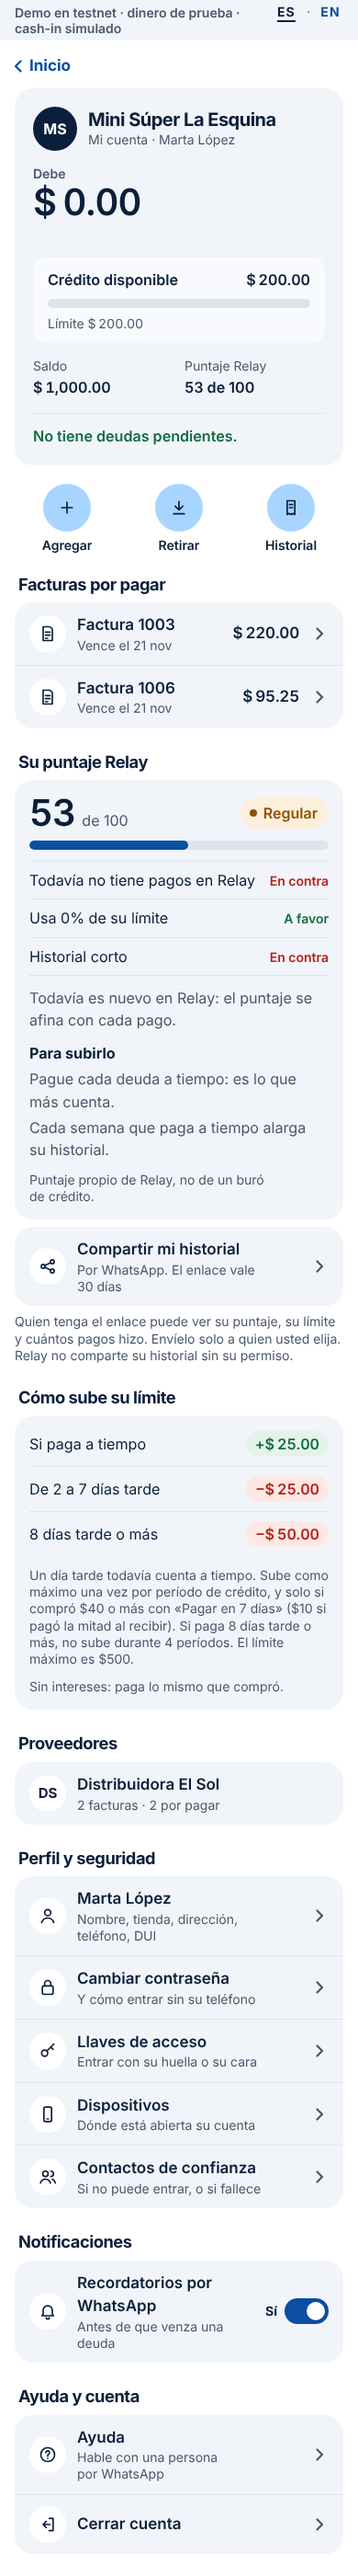
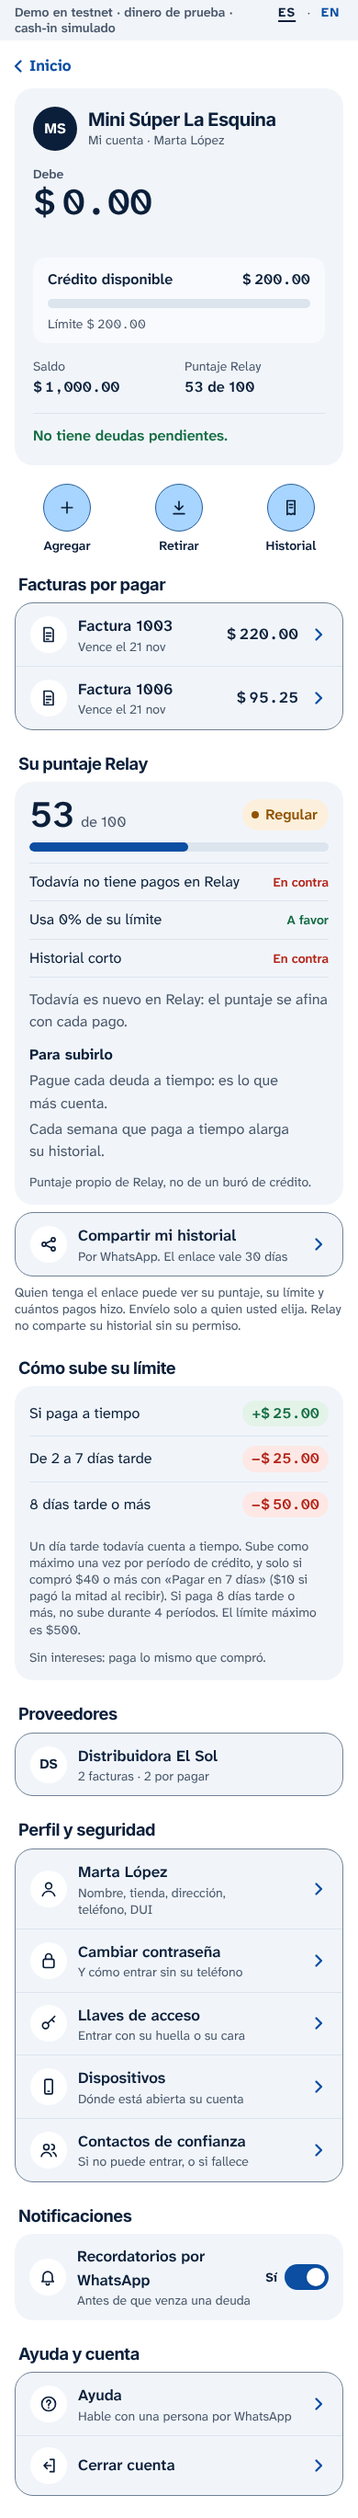
Review fixes: visible edges, clear disabled state, Atkinson for reading and codes
- Light blue buttons, pills and route arrows get a dark blue edge (#265f9e: 3:1+ on white,
  cards and the blue itself). Tappable rows, cards, tabs and selects get a grey edge (#6f8196).
- A disabled main button is white with a dashed edge and muted words, no longer a near twin.
- Row chevrons are blue again so rows read as tappable.
- Reading text back to Atkinson Hyperlegible Next, amounts and codes in Atkinson Hyperlegible
  Mono; Inter stays for the big headings only.
- The shop's demo card starts open on the home page.
- lib/contrast.test.ts checks the edge, row and disabled pairs at 3:1.

Claude-Session: https://claude.ai/code/session_012ShQukY565b6Ed76kj7NKX

diff --git a/app/page.tsx b/app/page.tsx
@@ -95,16 +95,16 @@ function CurlyArrow() {
 /** The fold's chevron: points right when closed, down when open (.fold-chevron in globals.css). */
 function FoldChevron() {
   return (
-    <svg viewBox="0 0 20 20" className="fold-chevron size-6 shrink-0 text-ink" fill="none" stroke="currentColor" strokeWidth="2.25" strokeLinecap="round" strokeLinejoin="round" aria-hidden="true">
+    <svg viewBox="0 0 20 20" className="fold-chevron size-6 shrink-0 text-brand" fill="none" stroke="currentColor" strokeWidth="2.25" strokeLinecap="round" strokeLinejoin="round" aria-hidden="true">
       <path d="M7.5 4.5 13 10l-5.5 5.5" />
     </svg>
   );
 }
 
-/** One way into the demo: a card with a number and who you are. Tapping it unfolds one sentence and the people to choose from. */
-function Role({ n, id, who, children, links }: { n: number; id: string; who: ReactNode; children: ReactNode; links: ReactNode }) {
+/** One way into the demo: a card with a number and who you are. Tapping it unfolds one sentence and the people to choose from. The shop starts open (most visitors, and booth judges, try it first). */
+function Role({ n, id, who, children, links, open = false }: { n: number; id: string; who: ReactNode; children: ReactNode; links: ReactNode; open?: boolean }) {
   return (
-    <details className="fold group rounded-card bg-paper">
+    <details open={open} className="fold group rounded-card border border-edge bg-paper">
       <summary className="press flex min-h-16 items-center gap-3 rounded-card px-4 py-3 hover:bg-brand-tint">
         <span className="flex size-9 shrink-0 items-center justify-center rounded-full bg-accent text-base font-bold text-ink" aria-hidden="true">
           {n}
@@ -149,7 +149,7 @@ export default function Home() {
             <Link href="/registro" className={`${PILL} bg-ink text-white hover:bg-[#162f52]`}>
               <T es="Crear cuenta" en="Create account" />
             </Link>
-            <a href="#demo" className={`${PILL} bg-white text-ink hover:bg-paper`}>
+            <a href="#demo" className={`${PILL} border-[1.5px] border-accent-edge bg-white text-ink hover:bg-paper`}>
               <T es="Probar la demo" en="Try the demo" />
             </a>
           </div>
@@ -188,7 +188,7 @@ export default function Home() {
       </section>
 
       <section aria-labelledby="como">
-        <details className="fold rounded-card bg-paper">
+        <details className="fold rounded-card border border-edge bg-paper">
           <summary className="press flex items-center gap-4 rounded-card px-5 py-5 hover:bg-brand-tint min-[40rem]:px-8 min-[40rem]:py-6">
             <span className="flex min-w-0 flex-1 flex-col gap-1">
               <h2 id="como" className="text-[clamp(1.875rem,1.3rem+2.5vw,3rem)] leading-[1.05] font-black tracking-[-0.03em]">
@@ -245,7 +245,7 @@ export default function Home() {
         </header>
 
         <div className="grid items-start gap-3 min-[64rem]:grid-cols-3 min-[64rem]:gap-4">
-          <Role n={1} id="rol-tienda" who={<T es="La tienda" en="The shop" />} links={<ShopLinks />}>
+          <Role n={1} id="rol-tienda" open who={<T es="La tienda" en="The shop" />} links={<ShopLinks />}>
             <T es="Paga cada factura desde el teléfono: ahora, en efectivo o en 7 días sin intereses." en="Pays each invoice from the phone: now, in cash, or in 7 days with no interest." />
           </Role>
           <Role n={2} id="rol-motorista" who={<T es="El motorista" en="The driver" />} links={<DriverLinks />}>

diff --git a/components/kit/button.tsx b/components/kit/button.tsx
@@ -27,9 +27,9 @@ const FILL: Record<FilledSize, string> = {
 const FILLED = `flex w-full flex-col items-center justify-center rounded-full text-center font-bold ${PRESS}`;
 const TONE = {
   primary:
-    "bg-accent text-ink hover:bg-accent-press active:bg-accent-press disabled:bg-paper-rule disabled:text-muted aria-busy:disabled:bg-accent-press aria-busy:disabled:text-ink data-arriving:disabled:bg-accent data-arriving:disabled:text-ink",
+    "border-[1.5px] border-accent-edge bg-accent text-ink hover:bg-accent-press active:bg-accent-press disabled:border-dashed disabled:border-edge disabled:bg-white disabled:text-muted aria-busy:disabled:border-solid aria-busy:disabled:border-accent-edge aria-busy:disabled:bg-accent-press aria-busy:disabled:text-ink data-arriving:disabled:border-solid data-arriving:disabled:border-accent-edge data-arriving:disabled:bg-accent data-arriving:disabled:text-ink",
   danger:
-    "bg-bad text-white hover:bg-[#8f1c13] active:bg-[#8f1c13] disabled:bg-paper-rule disabled:text-muted aria-busy:disabled:bg-[#8f1c13] aria-busy:disabled:text-white",
+    "bg-bad text-white hover:bg-[#8f1c13] active:bg-[#8f1c13] border-[1.5px] border-bad disabled:border-dashed disabled:border-edge disabled:bg-white disabled:text-muted aria-busy:disabled:bg-[#8f1c13] aria-busy:disabled:text-white",
 };
 
 /**
@@ -115,8 +115,8 @@ export function ButtonLink({ href, children, hint, size = "md", external = false
 // ---------- secondary actions: outlined rows ----------
 
 const ROW = `flex w-full items-center justify-between gap-3 px-4 py-2 text-left text-ink ${PRESS}`;
-const OUTLINE = "rounded-control bg-paper hover:bg-brand-tint active:bg-brand-tint";
-const OUTLINE_OFF = "disabled:text-muted disabled:hover:bg-paper";
+const OUTLINE = "rounded-control border border-edge bg-paper hover:bg-brand-tint active:bg-brand-tint";
+const OUTLINE_OFF = "disabled:border-dashed disabled:text-muted disabled:hover:bg-paper";
 
 function RowLabel({ title, hint }: { title: ReactNode; hint?: ReactNode }) {
   return (
@@ -131,7 +131,7 @@ function RowEnd({ figure, open }: { figure?: ReactNode; open?: boolean }) {
   return (
     <span className="flex shrink-0 items-center gap-2">
       {figure && <span className="font-mono text-[1.0625rem] font-semibold text-ink">{figure}</span>}
-      <Chevron open={open} />
+      <Chevron open={open} className="size-5 text-brand" />
     </span>
   );
 }
@@ -180,7 +180,7 @@ export function ActionRow({
     );
   }
   return (
-    <div className="rounded-control bg-paper">
+    <div className={`rounded-control border bg-paper ${disabled ? "border-dashed border-edge" : "border-edge"}`}>
       <button
         type="button"
         onClick={onClick}

diff --git a/app/layout.tsx b/app/layout.tsx
@@ -1,13 +1,17 @@
 import type { Metadata, Viewport } from "next";
-import { Inter } from "next/font/google";
+import { Atkinson_Hyperlegible_Mono, Atkinson_Hyperlegible_Next, Inter } from "next/font/google";
 import type { ReactNode } from "react";
 import { TestnetBand } from "@/components/kit/band";
 import { APP_NAME, TAGLINE } from "@/lib/brand";
 import "./globals.css";
 
-// Inter is downloaded at build time and served from our own domain (Latin subset only). One variable file covers
-// every weight: body text, heavy headings, and amounts (with tabular figures, see globals.css).
-const sans = Inter({ variable: "--font-inter", subsets: ["latin"], display: "swap" });
+// All fonts are downloaded at build time and served from our own domain (Latin subset only).
+// Atkinson Hyperlegible Next: all reading text (made for low vision; older shop owners read it easily).
+const sans = Atkinson_Hyperlegible_Next({ variable: "--font-atkinson", subsets: ["latin"], weight: "variable", display: "swap", adjustFontFallback: false });
+// Atkinson Hyperlegible Mono: every amount, invoice number and code.
+const mono = Atkinson_Hyperlegible_Mono({ variable: "--font-atkinson-mono", subsets: ["latin"], weight: "variable", display: "swap", adjustFontFallback: false });
+// Inter: the big headings only (Wise look).
+const display = Inter({ variable: "--font-inter", subsets: ["latin"], display: "swap" });
 
 export const metadata: Metadata = {
   title: `${APP_NAME} · ${TAGLINE}`,
@@ -19,7 +23,7 @@ export const viewport: Viewport = { themeColor: "#ffffff", viewportFit: "cover" 
 
 export default function RootLayout({ children }: { children: ReactNode }) {
   return (
-    <html lang="es" className={`${sans.variable} h-full antialiased`}>
+    <html lang="es" className={`${sans.variable} ${mono.variable} ${display.variable} h-full antialiased`}>
       <body className="flex min-h-dvh flex-col font-sans">
         <TestnetBand />
         {children}

diff --git a/app/globals.css b/app/globals.css
@@ -23,6 +23,11 @@
   /* The bright accent (Wise's lime, in Relay blue): the main button and the big hero bands. Ink text on it. */
   --color-accent: #a8d5ff;
   --color-accent-press: #8cc4f7;
+  /* The edge of anything light blue (3:1 or more on white, on cards and on the light blue itself), so a button
+     is a button for anyone, not just a pale shape. */
+  --color-accent-edge: #265f9e;
+  /* The edge of a tappable row or card (3:1 or more on white and on cards). */
+  --color-edge: #6f8196;
 
   /* Stamps and status. The tints are stamp fills only, never large backgrounds. */
   --color-ok: #146c43;
@@ -63,9 +68,12 @@
 }
 
 @theme inline {
-  --font-sans: var(--font-inter), ui-sans-serif, system-ui, sans-serif;
-  /* Amounts use the same sans with figures that line up (Wise style); the name stays so every call site keeps working. */
-  --font-mono: var(--font-inter), ui-sans-serif, system-ui, sans-serif;
+  /* Reading text: Atkinson Hyperlegible Next, made for low vision (no mixing up 0/O, 1/l/I). */
+  --font-sans: var(--font-atkinson), ui-sans-serif, system-ui, sans-serif;
+  /* Amounts and codes: its mono sister, so every digit and letter of a code is unmistakable. */
+  --font-mono: var(--font-atkinson-mono), ui-monospace, "SF Mono", Menlo, Consolas, monospace;
+  /* Big headings only: Inter, heavy and tight, for the Wise look. */
+  --font-display: var(--font-inter), ui-sans-serif, system-ui, sans-serif;
 }
 
 /* A short screen (a 360x640 phone, any phone held sideways): the slip tightens and folds its lines, so the
@@ -142,12 +150,12 @@ body {
   /* Figures line up in columns */
   .font-mono {
     font-variant-numeric: tabular-nums;
-    letter-spacing: -0.01em;
   }
 
   /* Headings: heavy and tight, like Wise's. */
   h1,
   h2 {
+    font-family: var(--font-display);
     font-weight: 800;
     letter-spacing: -0.025em;
   }

diff --git a/components/kit/account.tsx b/components/kit/account.tsx
@@ -23,7 +23,7 @@ export function CardHeading({ children, id }: { children: ReactNode; id?: string
 
 /** Several rows in one card, split by hairlines. */
 export function RowGroup({ children }: { children: ReactNode }) {
-  return <Card className="flex flex-col divide-y divide-paper-rule overflow-hidden">{children}</Card>;
+  return <Card className="flex flex-col divide-y divide-paper-rule overflow-hidden border border-edge">{children}</Card>;
 }
 
 /** A small round mark at the start of a row: an icon, or a name's initials. */
@@ -47,7 +47,7 @@ function RowBody({ mark, title, hint, figure, chevron }: { mark?: ReactNode; tit
         {hint && <span className="text-label text-muted text-pretty">{hint}</span>}
       </span>
       {figure && <span className="shrink-0 font-mono text-[1.0625rem] font-semibold text-ink">{figure}</span>}
-      {chevron && <Chevron className="size-5 text-muted" />}
+      {chevron && <Chevron className="size-5 text-brand" />}
     </>
   );
 }
@@ -119,7 +119,7 @@ export function Shortcut({ href, icon, children }: { href: string; icon: ReactNo
     <Link href={href} className="group flex min-h-11 min-w-0 flex-1 flex-col items-center gap-1.5 rounded-control py-1 text-center">
       <span
         aria-hidden
-        className="flex size-13 items-center justify-center rounded-full bg-accent text-ink press group-hover:bg-accent-press group-active:scale-[0.92] motion-reduce:group-active:scale-100"
+        className="flex size-13 items-center justify-center rounded-full border-[1.5px] border-accent-edge bg-accent text-ink press group-hover:bg-accent-press group-active:scale-[0.92] motion-reduce:group-active:scale-100"
       >
         {icon}
       </span>

diff --git a/components/kit/field.tsx b/components/kit/field.tsx
@@ -8,7 +8,7 @@ import { useT } from "@/lib/i18n";
 
 // scroll-mb: when the phone brings a focused input into view, the button under it comes too.
 export const INPUT =
-  "min-h-13 w-full scroll-mb-28 rounded-control border-[1.5px] border-[#8693a5] bg-white px-4 text-[1.125rem] text-ink placeholder:text-muted/70 focus:border-ink focus:outline-3 focus:outline-accent focus:-outline-offset-1 aria-invalid:border-bad disabled:border-counter-rule disabled:text-muted";
+  "min-h-13 w-full scroll-mb-28 rounded-control border-[1.5px] border-edge bg-white px-4 text-[1.125rem] text-ink placeholder:text-muted/70 focus:border-ink focus:outline-3 focus:outline-accent focus:-outline-offset-1 aria-invalid:border-bad disabled:border-counter-rule disabled:text-muted";
 
 type Common = { label: ReactNode; hint?: ReactNode; error?: ReactNode };
 
@@ -102,7 +102,7 @@ export function FilterSelect({ label, children, ...select }: { label: ReactNode 
       </label>
       <select
         id={id}
-        className="press select-chevron min-h-11 w-full appearance-none rounded-full bg-paper py-1 pr-9 pl-4 text-base font-semibold text-ink hover:bg-brand-tint focus:outline-3 focus:outline-brand @min-[40rem]:w-auto"
+        className="press select-chevron min-h-11 w-full appearance-none rounded-full border border-edge bg-paper py-1 pr-9 pl-4 text-base font-semibold text-ink hover:bg-brand-tint focus:outline-3 focus:outline-brand @min-[40rem]:w-auto"
         {...select}
       >
         {children}

diff --git a/lib/contrast.test.ts b/lib/contrast.test.ts
@@ -50,6 +50,21 @@ describe("colour contrast", () => {
     for (const fill of ["accent", "accent-press"]) expect(contrast(token("ink"), token(fill)), fill).toBeGreaterThanOrEqual(AAA);
   });
 
+  it("a light blue button's edge is 3:1 or more on the page, on a card and against its own fill", () => {
+    for (const ground of ["counter", "paper", "accent", "accent-press"]) expect(contrast(token("accent-edge"), token(ground)), ground).toBeGreaterThanOrEqual(3);
+  });
+
+  it("a tappable row's or card's edge is 3:1 or more on the page and on a card", () => {
+    for (const ground of ["counter", "paper"]) expect(contrast(token("edge"), token(ground)), ground).toBeGreaterThanOrEqual(3);
+  });
+
+  it("a disabled button (white, dashed edge, muted words) tells itself apart from an active one by its edge and words", () => {
+    // The active edge against the disabled fill, and the active words against the disabled words' fill.
+    expect(contrast(token("accent-edge"), token("counter"))).toBeGreaterThanOrEqual(3);
+    expect(contrast(token("muted"), token("counter"))).toBeGreaterThanOrEqual(AA);
+    expect(contrast(token("edge"), token("counter"))).toBeGreaterThanOrEqual(3);
+  });
+
   it("white text is AA on every filled button, resting and pressed", () => {
     for (const fill of ["brand", "brand-press", "bad"]) expect(contrast("#ffffff", token(fill)), fill).toBeGreaterThanOrEqual(AA);
   });

diff --git a/components/kit/manifest.tsx b/components/kit/manifest.tsx
@@ -77,7 +77,7 @@ export function ManifestRow({
             : ""
         }`}
       >
-        <span className="flex min-w-0 flex-1 items-stretch rounded-l-paper bg-paper">
+        <span className="flex min-w-0 flex-1 items-stretch rounded-l-paper border border-r-0 border-edge bg-paper">
           <span
             className={`flex shrink-0 items-center justify-center border-r-2 border-solid border-paper-rule font-mono font-semibold ${
               next ? "w-14 text-[2.5rem] @max-[19rem]/row:w-11 @max-[19rem]/row:text-[2rem]" : "w-12 text-[1.75rem] @max-[19rem]/row:w-10 @max-[19rem]/row:text-[1.5rem]"
@@ -121,7 +121,7 @@ export function ManifestRow({
         <span
           aria-hidden
           className={`flex w-14 shrink-0 items-center justify-center rounded-r-control @max-[19rem]/row:w-10 ${
-            done ? "bg-paper text-muted" : "bg-accent text-ink"
+            done ? "border border-edge bg-paper text-brand" : "border-[1.5px] border-accent-edge bg-accent text-ink"
           } ${current ? "@min-[40rem]/split:border-0 @min-[40rem]/split:bg-paper @min-[40rem]/split:text-ink" : ""}`}
         >
           <Chevron className={next ? "size-7" : "size-6"} />

diff --git a/app/sistema/page.tsx b/app/sistema/page.tsx
@@ -77,14 +77,14 @@ export default function Sistema() {
         </Section>
         <Section title={t("Letra", "Type")}>
           <Paper className="flex flex-col gap-3 px-4 py-5">
-            <p className="text-title font-bold">Inter 800</p>
+            <p className="text-title font-bold">Inter 800 (títulos) · Atkinson Hyperlegible Next</p>
             <p className="text-lead font-semibold">¿Cuánto paga ahora? ¡Año, pingüino, señal!</p>
             <p>El papel guarda los datos: montos, fechas, nombres, historial y estado. Á É Í Ó Ú Ñ Ü á é í ó ú ñ ü ¿ ¡ $</p>
             <p className="text-label text-muted">Etiqueta de 14 px, nunca menos.</p>
             <p className="font-mono text-figure font-semibold">
               <Money value={1234.5} />
             </p>
-            <p className="font-mono font-medium">Inter, cifras tabulares · 0123456789 · n.º 1001 · 13 nov 2026</p>
+            <p className="font-mono font-medium">Atkinson Hyperlegible Mono · 0123456789 · n.º 1001 · 13 nov 2026</p>
           </Paper>
         </Section>
         <Section title={t("Color", "Colour")}>

diff --git a/components/kit/ledger.tsx b/components/kit/ledger.tsx
@@ -289,7 +289,7 @@ export function RowButton({ children, onClick, label, disabled = false, busy = f
       disabled={disabled || busy}
       aria-busy={busy}
       aria-label={label}
-      className="inline-flex min-h-11 items-center justify-center press rounded-full bg-paper px-4 py-1 text-center font-sans text-base leading-tight font-bold text-ink select-none hover:bg-brand-tint active:bg-brand-tint disabled:cursor-not-allowed disabled:text-muted disabled:hover:bg-transparent"
+      className="inline-flex min-h-11 items-center justify-center press rounded-full border border-edge bg-paper px-4 py-1 text-center font-sans text-base leading-tight font-bold text-ink select-none hover:bg-brand-tint active:bg-brand-tint disabled:cursor-not-allowed disabled:text-muted disabled:hover:bg-transparent"
     >
       {busy ? t("Guardando...", "Saving...") : children}
     </button>

diff --git a/app/distribuidor/factura/new-invoice.tsx b/app/distribuidor/factura/new-invoice.tsx
@@ -137,7 +137,7 @@ function ShopPicker({ shops, value, onChange }: { shops: Shop[]; value: Shop | n
       {matches.length === 0 ? (
         <p className="text-muted">{t("No hay tiendas con ese nombre.", "No shops with that name.")}</p>
       ) : (
-        <ul aria-label={t("Tiendas encontradas", "Shops found")} className="flex flex-col divide-y divide-paper-rule overflow-hidden rounded-control bg-paper">
+        <ul aria-label={t("Tiendas encontradas", "Shops found")} className="flex flex-col divide-y divide-paper-rule overflow-hidden rounded-control border border-edge bg-paper">
           {matches.map((shop) => (
             <li key={shop.id}>
               <button type="button" onClick={() => pick(shop)} className={`${CHOICE} rounded-[8px]`}>

diff --git a/app/distribuidor/tiendas/shops-screen.tsx b/app/distribuidor/tiendas/shops-screen.tsx
@@ -185,7 +185,7 @@ export default function ShopsScreen() {
         setError(null);
         document.getElementById(`tab-${other}`)?.focus();
       }}
-      className={`press min-h-12 flex-1 rounded-full px-3 py-1 text-center leading-tight font-bold text-balance -outline-offset-3 ${mode === value ? "bg-ink text-white" : "bg-paper text-ink hover:bg-brand-tint"}`}
+      className={`press min-h-12 flex-1 rounded-full px-3 py-1 text-center leading-tight font-bold text-balance -outline-offset-3 ${mode === value ? "border-[1.5px] border-ink bg-ink text-white" : "border-[1.5px] border-edge bg-paper text-ink hover:bg-brand-tint"}`}
     >
       {label}
     </button>
